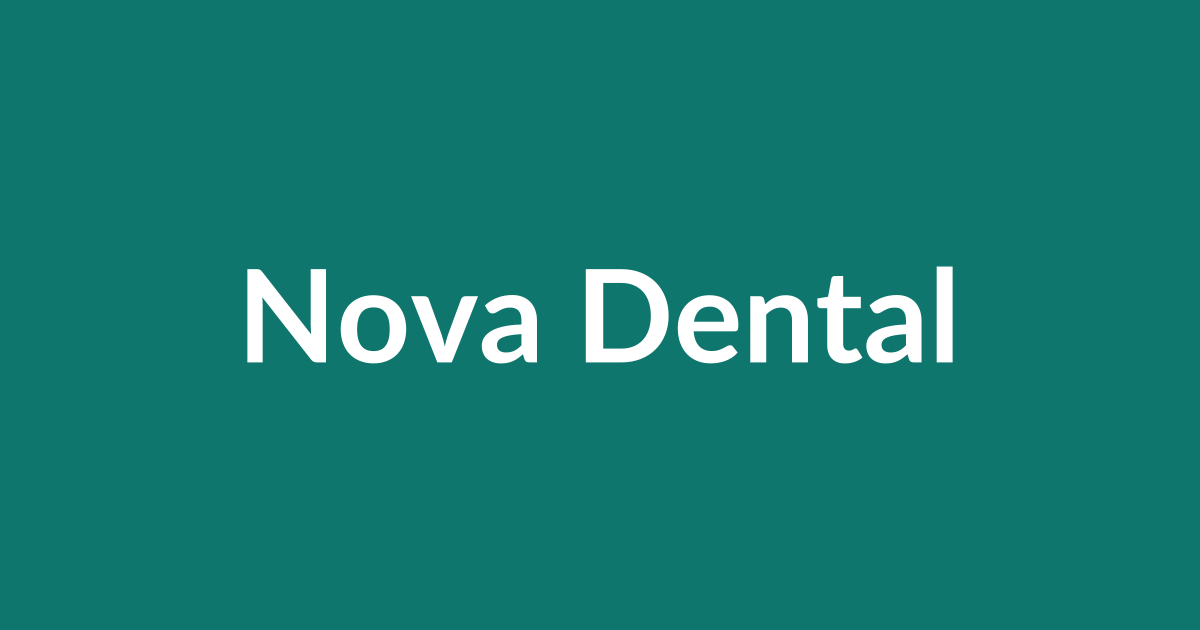
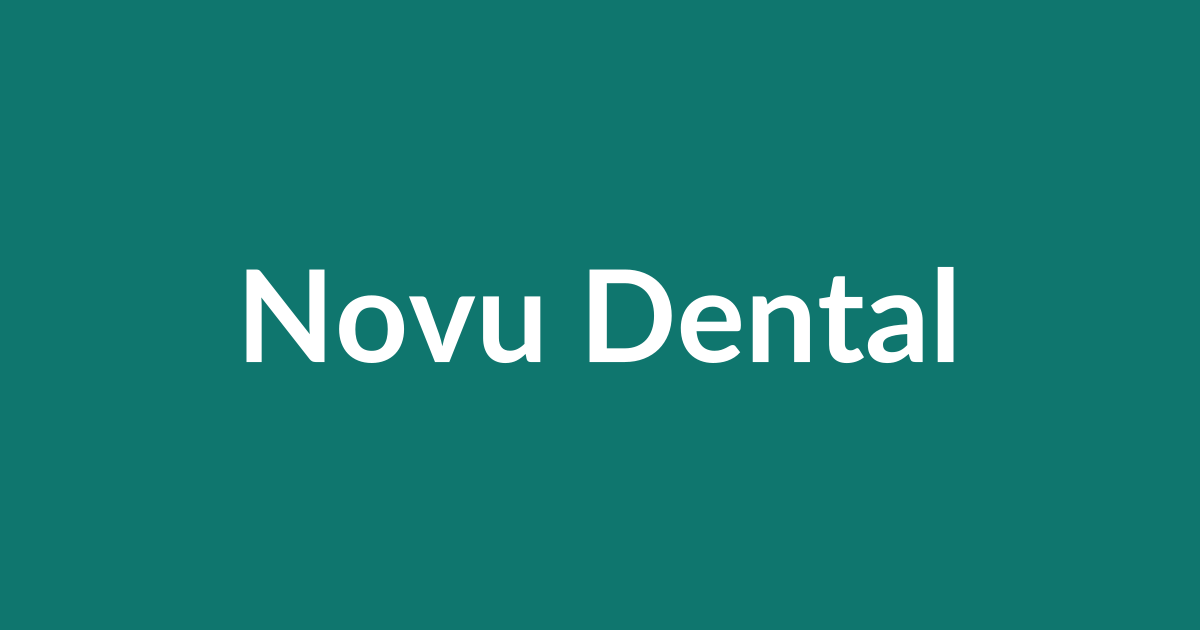
updated clinic name

Changed region(s): [[0.2158, 0.4222, 0.8017, 0.573]]

diff --git a/src/data/site.ts b/src/data/site.ts
@@ -87,15 +87,15 @@ export type Site = {
 };
 
 export const site: Site = {
-  name: "Nova Dental",
-  url: "https://novadental.in", // placeholder domain
+  name: "Novu Dental",
+  url: "https://novudental.in", // placeholder domain
   geo: { latitude: "0.0", longitude: "0.0" }, // placeholder — swap for real coordinates
   tagline: "Gentle, modern dental care for the whole family",
   phone: "+91 98765 43210",
   phoneHref: "tel:+919876543210",
   whatsapp:
-    "https://wa.me/919876543210?text=Hi%20Nova%20Dental%2C%20I%20would%20like%20to%20book%20an%20appointment.",
-  email: "hello@novadental.in",
+    "https://wa.me/919876543210?text=Hi%20Novu%20Dental%2C%20I%20would%20like%20to%20book%20an%20appointment.",
+  email: "hello@novudental.in",
   address: {
     line1: "12, 4th Cross, 80 Feet Road",
     line2: "Koramangala 4th Block",
@@ -286,9 +286,9 @@ export const site: Site = {
     },
   ],
   about: {
-    eyebrow: "About Nova Dental",
+    eyebrow: "About Novu Dental",
     heading: "Modern dentistry, with time taken to care.",
-    body: "At Nova Dental we blend specialist expertise with a calm, unhurried approach. From the first consultation to post-treatment follow-up, you'll find clear explanations, honest pricing, and a team that genuinely listens.",
+    body: "At Novu Dental we blend specialist expertise with a calm, unhurried approach. From the first consultation to post-treatment follow-up, you'll find clear explanations, honest pricing, and a team that genuinely listens.",
     pillars: [
       {
         icon: "Shield",
@@ -313,7 +313,7 @@ export const site: Site = {
     ],
   },
   gallery: [
-    { src: "/placeholders/clinic-1.jpg", alt: "Nova Dental reception area", span: "wide" },
+    { src: "/placeholders/clinic-1.jpg", alt: "Novu Dental reception area", span: "wide" },
     { src: "/placeholders/clinic-2.jpg", alt: "Dental treatment chair", span: "tall" },
     { src: "/placeholders/clinic-3.jpg", alt: "Sterilisation room", span: "normal" },
     { src: "/placeholders/clinic-4.jpg", alt: "Waiting lounge", span: "normal" },
@@ -324,7 +324,7 @@ export const site: Site = {
   ],
   contact: {
     eyebrow: "Find us",
-    heading: "Visit Nova Dental.",
+    heading: "Visit Novu Dental.",
     subheading: "Walk-ins welcome. Appointments preferred for faster service.",
     landmarks: [
       "Opposite Forum Mall — ground floor entrance",

diff --git a/scripts/generate-og.ts b/scripts/generate-og.ts
@@ -2,7 +2,7 @@
 // Run: node scripts/generate-og.ts   — replace the output with a branded image before launch.
 import { writeFile } from "node:fs/promises";
 
-const url = "https://placehold.co/1200x630/0F766E/FFFFFF/png?text=Nova+Dental";
+const url = "https://placehold.co/1200x630/0F766E/FFFFFF/png?text=Novu+Dental";
 const res = await fetch(url);
 if (!res.ok) throw new Error(`placehold.co responded ${res.status}`);
 await writeFile(new URL("../public/og-image.png", import.meta.url), Buffer.from(await res.arrayBuffer()));

diff --git a/src/components/sections/ServiceCard.tsx b/src/components/sections/ServiceCard.tsx
@@ -62,7 +62,7 @@ export function ServiceCard({ service, variant, index, className = "" }: Props) 
           <div className="relative aspect-[4/3] w-full shrink-0 overflow-hidden rounded-2xl bg-white/50 lg:w-1/2">
             <Image
               src={src}
-              alt={`${service.title} at Nova Dental`}
+              alt={`${service.title} at Novu Dental`}
               fill
               sizes="(min-width: 1024px) 50vw, 100vw"
               onError={() => src !== fallback && setSrc(fallback)}

diff --git a/src/components/sections/Doctors.tsx b/src/components/sections/Doctors.tsx
@@ -32,7 +32,7 @@ export function Doctors() {
         {specialists.length > 0 && (
           <div className="mt-20">
             <p className="text-xs font-medium uppercase tracking-widest text-slate-600">
-              Also at Nova
+              Also at Novu
             </p>
             <h3 className="mt-2 font-display text-2xl font-semibold text-ink">
               Our visiting specialists

diff --git a/src/lib/img.ts b/src/lib/img.ts
@@ -1,4 +1,4 @@
 // placehold.co serves SVG by default, which next/image blocks; the /png segment forces a raster image.
-export function placeholder(w: number, h: number, label = "Nova Dental") {
+export function placeholder(w: number, h: number, label = "Novu Dental") {
   return `https://placehold.co/${w}x${h}/0F766E/FFFFFF/png?text=${encodeURIComponent(label)}`;
 }
